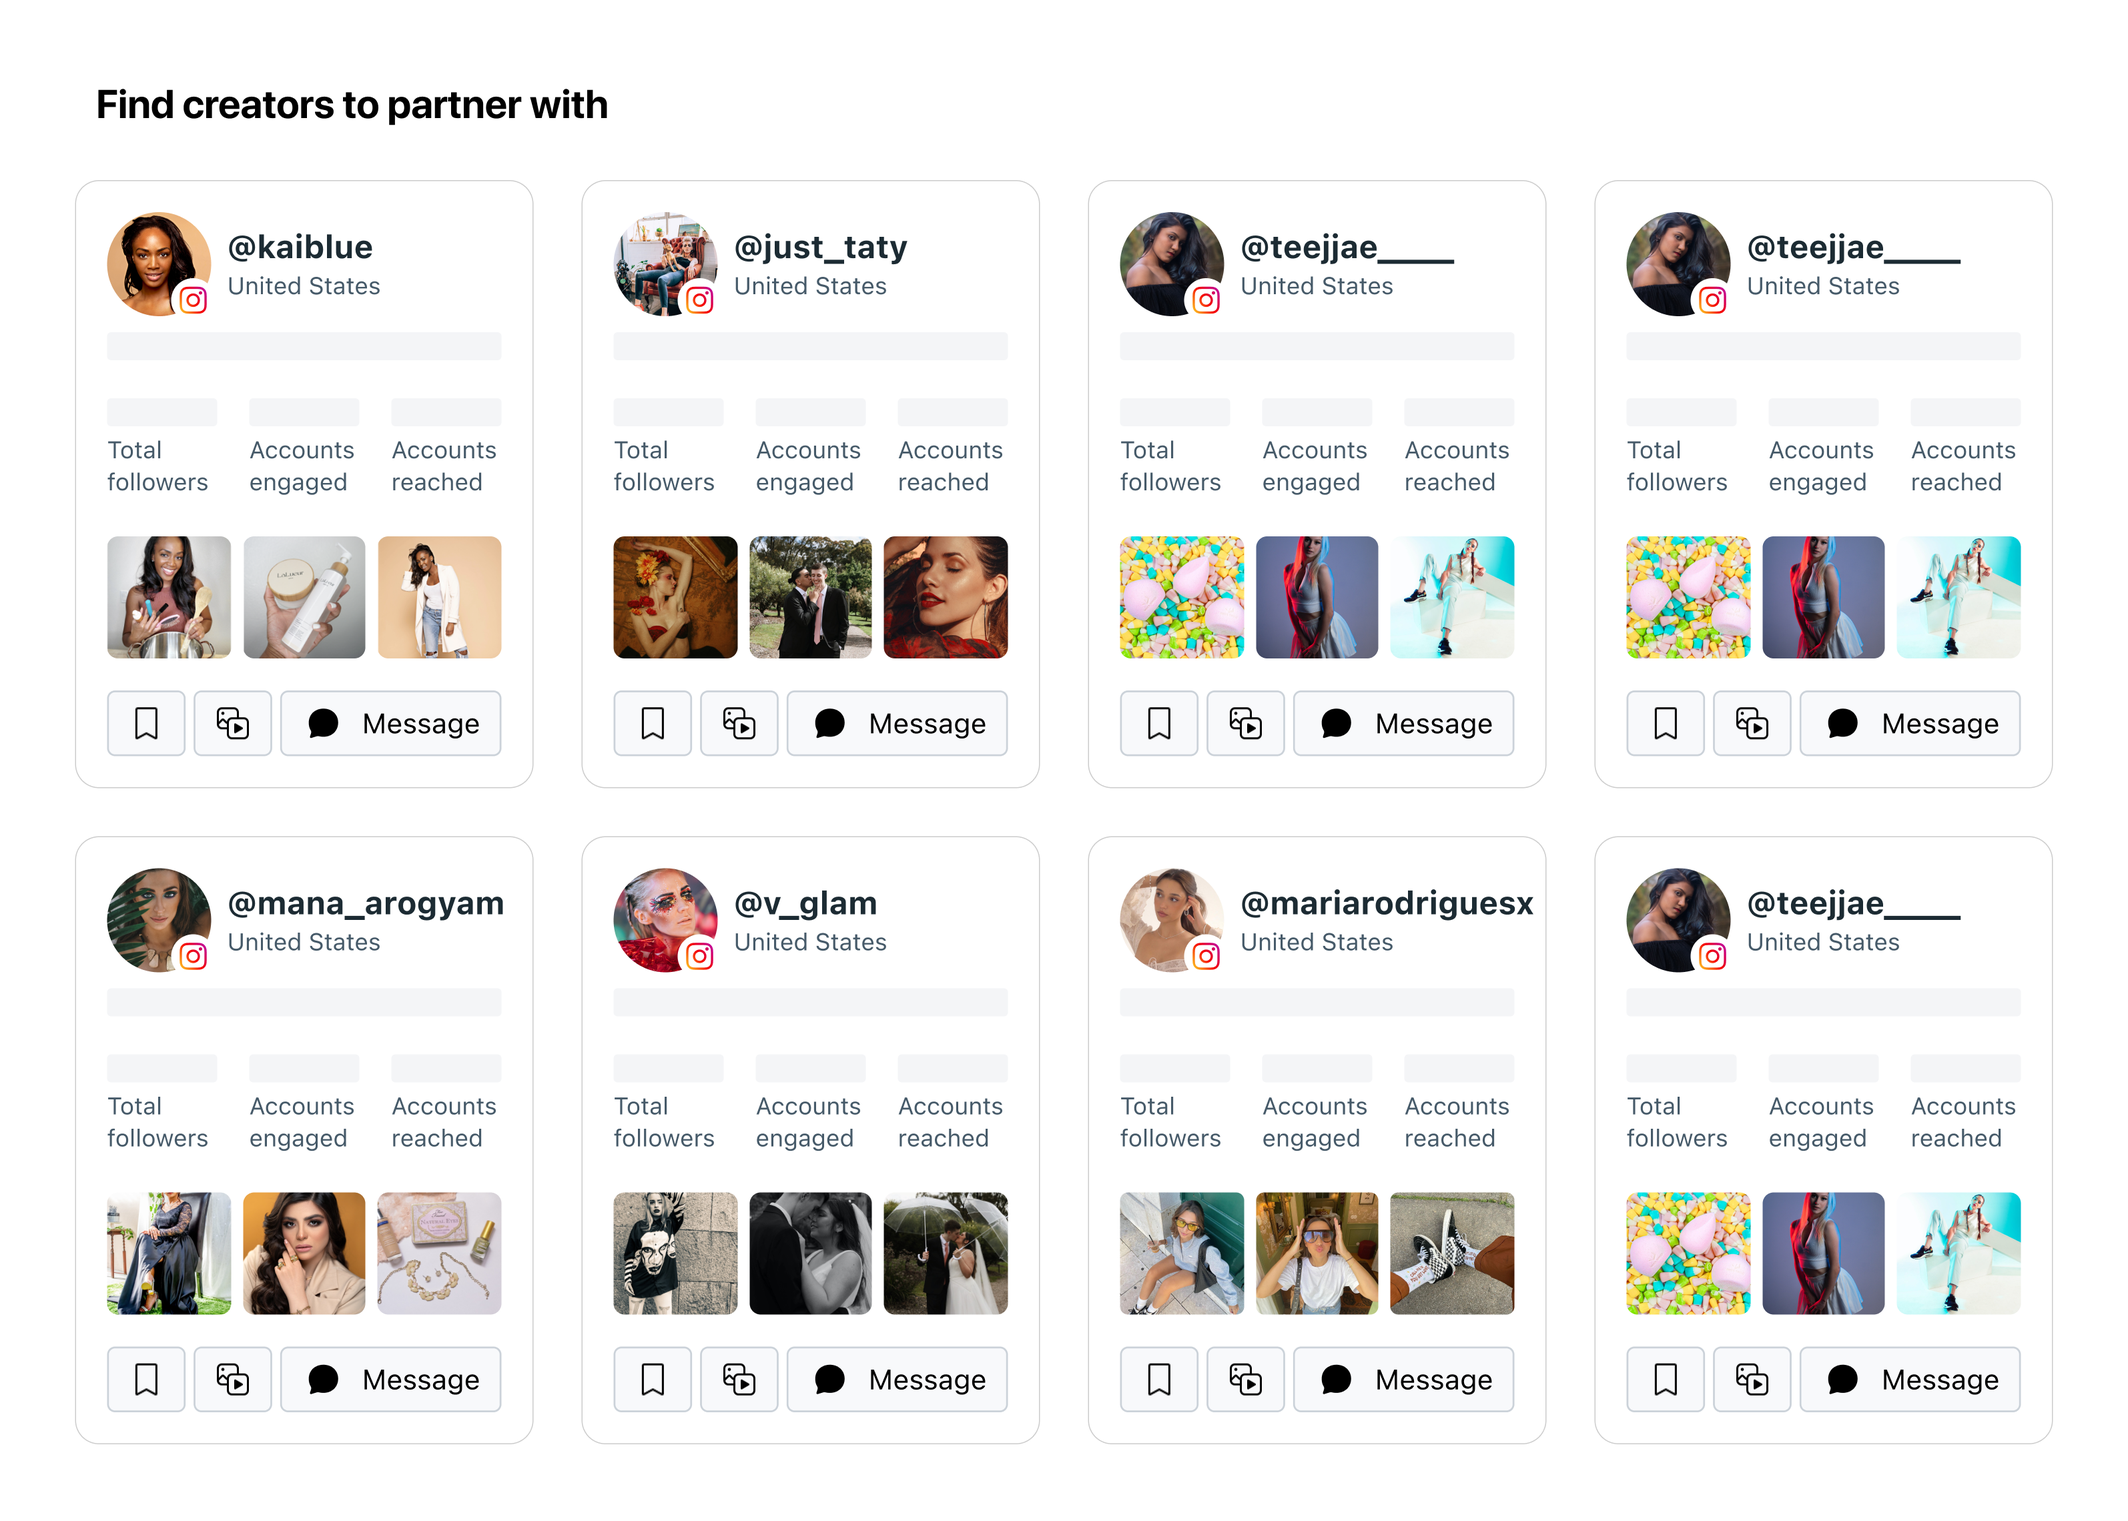
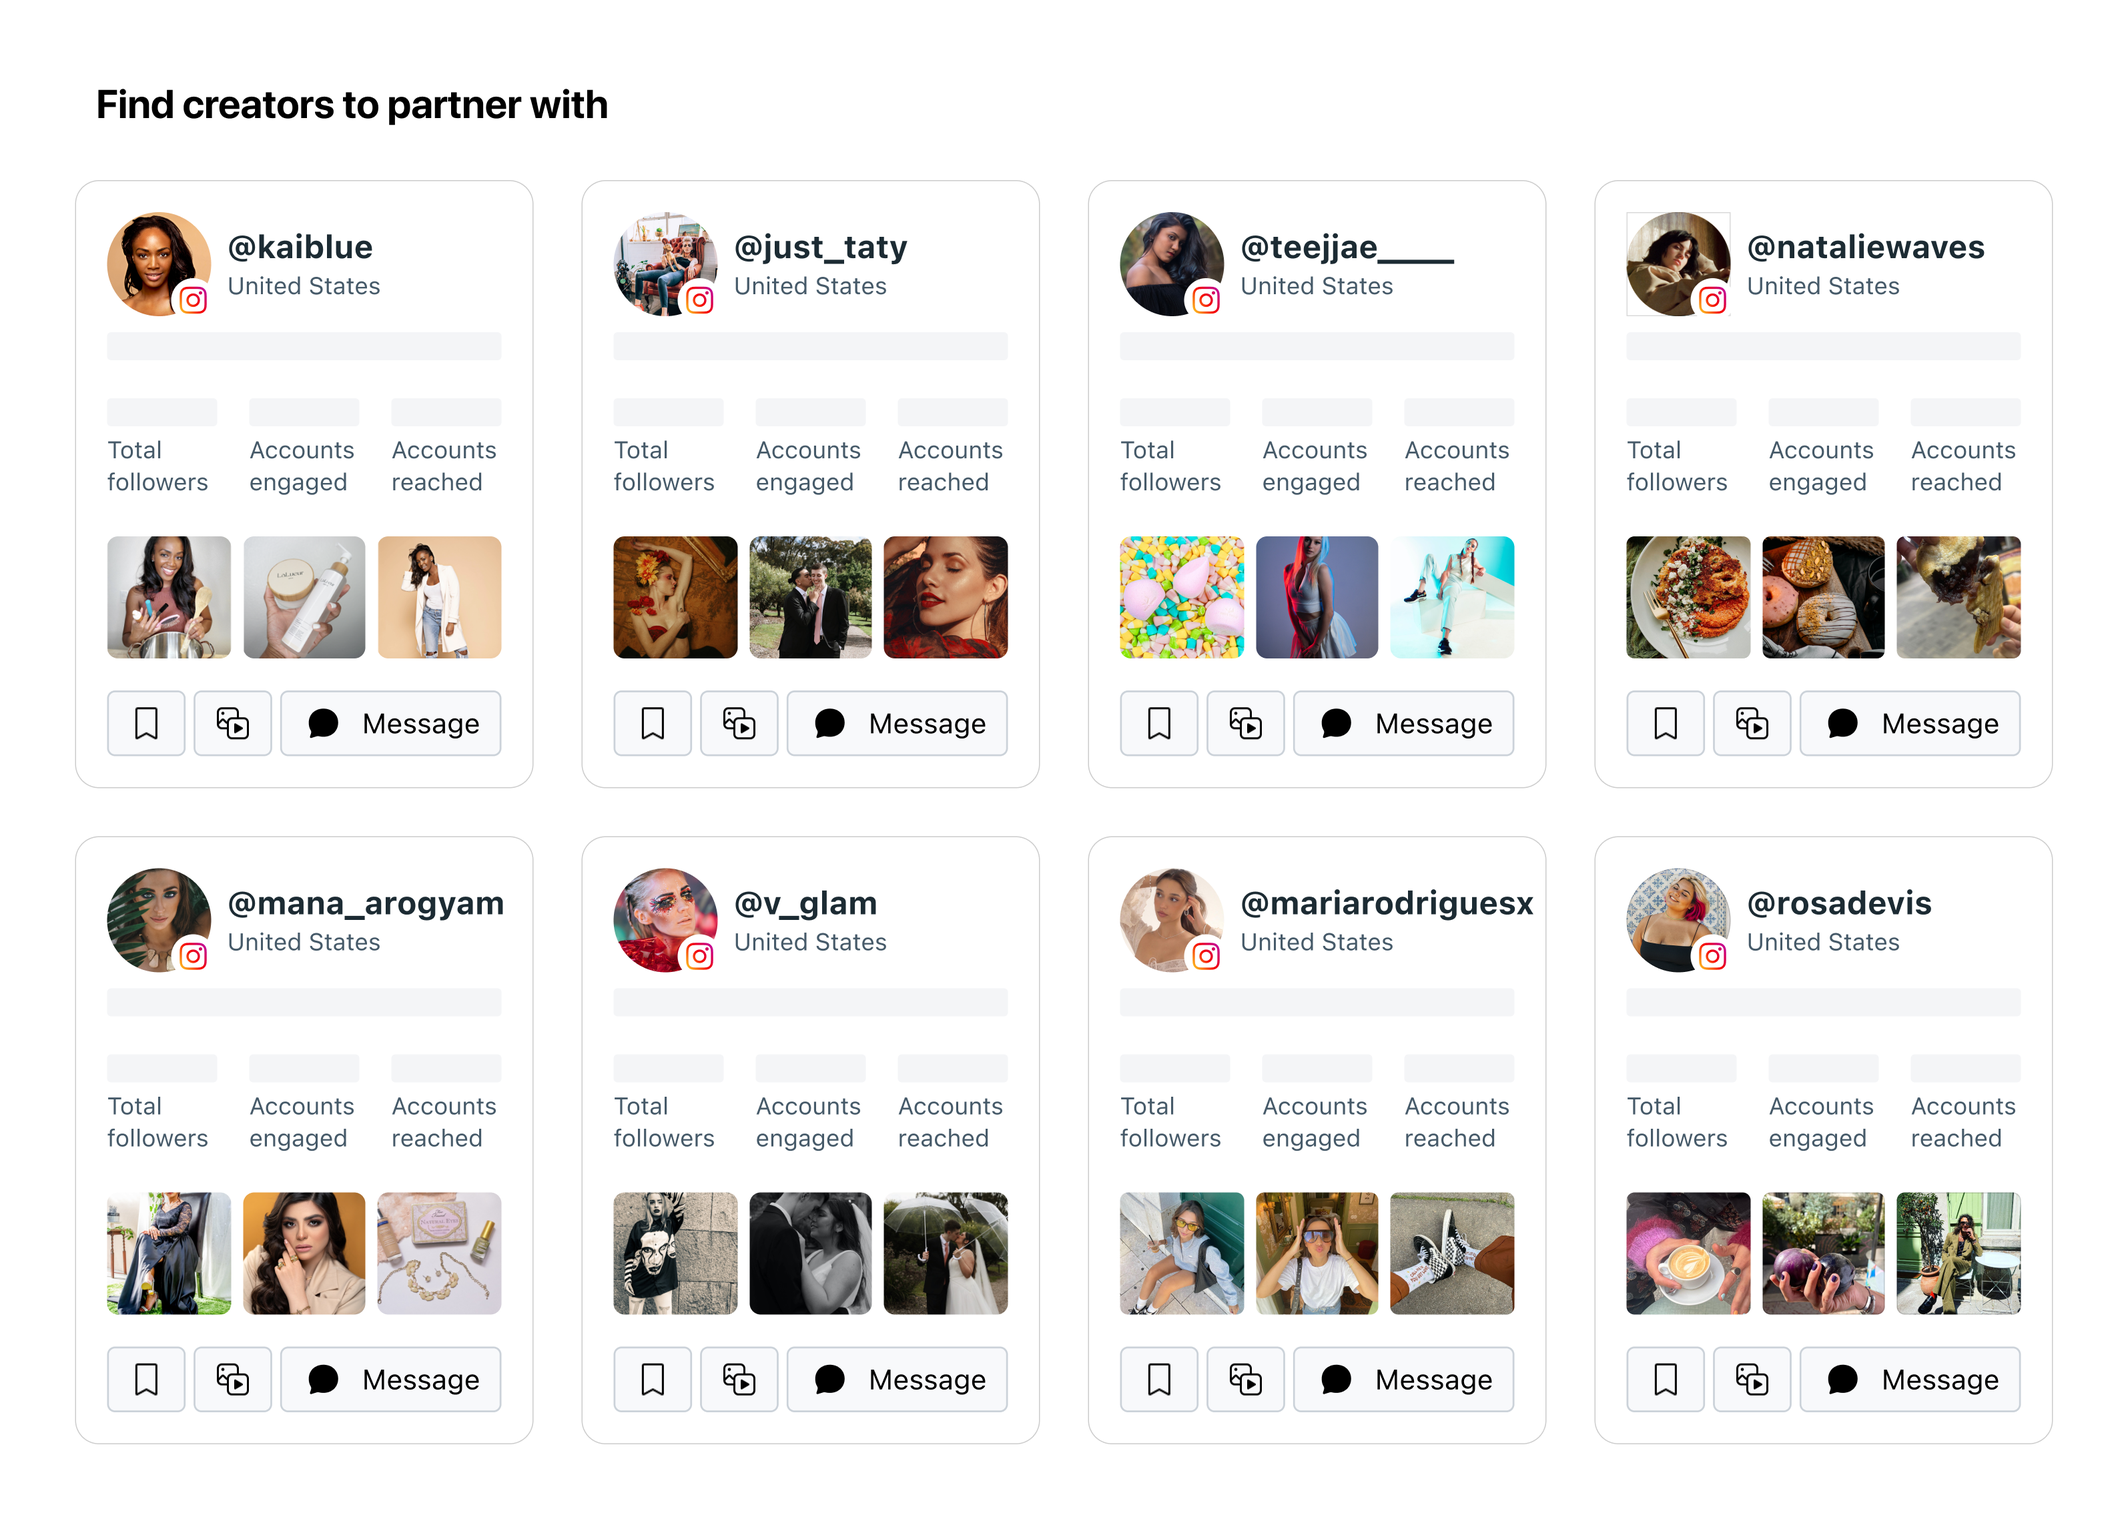
Rework Process animation, refine table, and unify case-study nav
- Process: pinned-collapse reveal (scroll-driven, reversible, no stuck/
  oscillation), staggered row-by-row table animation
- Signals table: column widths, left-aligned numbers, compact rows,
  updated row copy and example images
- Context section copy/heading tweaks; remove first-scroll hero-title snap
- Case-study nav: 1rem height, transparent over hero image and blurred
  background after it — consistent across both case studies

diff --git a/case-study-meta.html b/case-study-meta.html
@@ -88,7 +88,7 @@
             <img class="cs-context-bg" src="img/Old_creator card_grid.png" alt="Old creator marketplace creator card grid" loading="lazy">
           </div>
           <div class="cs-context-video">
-            <video src="img/What brands look for.mp4" controls playsinline preload="metadata" aria-label="What brands look for in creators on Instagram's creator marketplace"></video>
+            <video src="img/What brands look for.mp4" controls muted playsinline preload="metadata" aria-label="What brands look for in creators on Instagram's creator marketplace"></video>
           </div>
         </div>
       </div>
@@ -102,14 +102,14 @@
           <h2 class="cs-section-title">&ldquo;Look and feel&rdquo; metrics for finding creators</h2>
         </div>
         <div class="cs-body">
-          <p>Instagram's creator marketplace connects brands with creators for partnerships. Major advertisers like Nike rely on niche creators to drive traction through content that is both authentic and ad performant. But the marketplace was operating as a passive directory — <strong>77% of searches resulted in no match</strong>, creator agencies typically spent <strong>1.5 months</strong> sourcing creators, and brands had to do all the heavy lifting to find the right fit.</p>
+          <p>In paid marketing, brands rely on niche creators to produce content that feels authentic and drives ad performance. However, the marketplace operated as a passive directory&mdash;<strong>77% of searches returned no matches</strong>, agencies spent up to <strong>1.5 months</strong> sourcing creators, and brands were left doing the heavy lifting to find the right creators.</p>
         </div>
         <div class="cs-problems">
           <div class="cs-problem">
             <div class="cs-problem-content">
               <span class="cs-problem-icon">1</span>
               <h3>Content Buried in the Layout</h3>
-              <p>For brands, content quality matters more than who's posting it — it's the strongest signal of whether a partnership ad will convert. But the creator card was built around creator stats like follower count, location, and category, with no way to preview the content itself, leaving brands unable to evaluate what actually drives results.</p>
+              <p>For paid marketing, content quality matters. But the creator card was built around creator stats like follower count, location, and category, with no way to preview the content itself, leaving brands unable to evaluate what actually drives results.</p>
             </div>
             <div class="cs-problem-image">
               <img src="img/Old_Creator Card.png" alt="Old creator card design showing limited creator discovery experience" loading="lazy">
@@ -173,7 +173,7 @@
         <div class="cs-process-heading-group">
           <div class="cs-section-header">
             <span class="cs-section-label">Process</span>
-            <h2 class="cs-section-title">Prioritizing mid-funnel</h2>
+            <h2 class="cs-section-title">Prioritizing the mid-funnel</h2>
           </div>
           <div class="cs-body">
             <p id="cs-process-description">From 50+ ideas, impact sizing surfaced four high-potential concepts. In partnership with leadership, we focused on content and creator sourcing&mdash;the highest-leverage point in the mid-funnel to improve match quality and drive downstream conversion.</p>
@@ -230,16 +230,16 @@
             <tbody>
               <tr class="cs-signals-table-highlight">
                 <td>1</td>
-                <td>&num; of creatives that are PA/BC</td>
+                <td>&num; of creatives that are branded content</td>
                 <td>Medium</td>
                 <td>High</td>
                 <td><img class="cs-signals-table-img" src="img/Creator card explorations/text_var_01.png" alt="Text variant example 1" loading="lazy"></td>
               </tr>
               <tr class="cs-signals-table-highlight">
                 <td>2</td>
-                <td>&num; of times a creator has mentioned the brand</td>
+                <td>&num; of creatives that are partnership ads</td>
+                <td>Medium</td>
                 <td>High</td>
-                <td>Low</td>
                 <td><img class="cs-signals-table-img" src="img/Creator card explorations/text_var_02.png" alt="Text variant example 2" loading="lazy"></td>
               </tr>
               <tr class="cs-signals-table-highlight">
@@ -251,17 +251,17 @@
               </tr>
               <tr class="cs-signals-table-highlight">
                 <td>4</td>
-                <td>&num; of times a creator has tagged the product of the brand</td>
+                <td>Worked with similar brands</td>
                 <td>Medium</td>
                 <td>Low/Medium</td>
-                <td><img class="cs-signals-table-img" src="img/Creator card explorations/text_var_05.png" alt="Text variant example 4" loading="lazy"></td>
+                <td><img class="cs-signals-table-img" src="img/Creator card explorations/text_var_06.png" alt="Text variant example 4" loading="lazy"></td>
               </tr>
               <tr class="cs-signals-table-highlight">
                 <td>5</td>
                 <td>&num; of affiliate content a creator has for the brand</td>
                 <td>Low</td>
                 <td>High</td>
-                <td><img class="cs-signals-table-img" src="img/Creator card explorations/text_var_06.png" alt="Text variant example 5" loading="lazy"></td>
+                <td><img class="cs-signals-table-img" src="img/Creator card explorations/text_var_05.png" alt="Text variant example 5" loading="lazy"></td>
               </tr>
               <tr class="cs-signals-table-highlight cs-signals-table-last-visible">
                 <td>6</td>
@@ -441,21 +441,15 @@
     var yearEl = document.querySelector('.footer-year');
     if (yearEl) yearEl.textContent = new Date().getFullYear();
 
-    // On the first scroll, snap the hero title to the top instead of landing mid-hero
-    var heroTitle = document.querySelector('.cs-hero-title');
-    if (heroTitle) {
-      window.addEventListener('scroll', function() {
-        var target = heroTitle.getBoundingClientRect().top + window.scrollY - 80;
-        window.scrollTo({ top: target, behavior: 'smooth' });
-      }, { passive: true, once: true });
-    }
-
-    // Toggle nav color when scrolled past hero
+    // Show the nav's blurred background once scrolled past the hero IMAGE
+    // (transparent/white over the image, solid background everywhere after).
     var hero = document.querySelector('.cs-hero');
+    var heroCover = document.querySelector('.cs-hero-cover');
+    var navTrigger = heroCover || hero;
     var nav = document.querySelector('.case-study-nav');
-    if (hero && nav) {
+    if (navTrigger && nav) {
       window.addEventListener('scroll', function() {
-        if (window.scrollY >= hero.offsetHeight) {
+        if (window.scrollY >= navTrigger.offsetHeight - 1) {
           nav.classList.add('nav-past-hero');
         } else {
           nav.classList.remove('nav-past-hero');
@@ -490,12 +484,21 @@
       }, { threshold: 0.3 }).observe(results);
     }
 
-    // Context section — fade background to dark on scroll into view
+    // Context section — fade background to dark and autoplay video on scroll into view
     var contextSection = document.querySelector('.cs-section--context');
     if (contextSection) {
+      var contextVideo = contextSection.querySelector('video');
       new IntersectionObserver(function(entries) {
         entries.forEach(function(entry) {
           contextSection.classList.toggle('is-dark', entry.isIntersecting);
+          if (contextVideo) {
+            if (entry.isIntersecting) {
+              var p = contextVideo.play();
+              if (p && p.catch) p.catch(function() {});
+            } else {
+              contextVideo.pause();
+            }
+          }
         });
       }, { threshold: 0.35 }).observe(contextSection);
     }
@@ -571,20 +574,27 @@
         var progress = (NAV_CLEARANCE - descBottom) / fadeRange;
         progress = Math.max(0, Math.min(1, progress));
         var exitP = Math.min(1, progress / 0.6);
-        var collapseP = progress;
 
-        ideaCards.forEach(function(card, i) {
-          var col = i % 2 === 0 ? -1 : 1;
-          var row = card.classList.contains('cs-idea-card--top') ? -1 : 1;
-          var x = col * exitP * SPREAD_X;
-          var y = row * exitP * SPREAD_Y;
-          card.style.transform = 'translate(' + x + 'px, ' + y + 'px)';
+        // Cards fade in place (no spreading).
+        ideaCards.forEach(function(card) {
           card.style.opacity = String(1 - exitP);
         });
 
-        ideasCollapse.style.height = (naturalHeight * (1 - collapseP)) + 'px';
+        // Collapse the cards' empty space over a scroll distance equal to their
+        // own height, so the height shrinks at the same rate you scroll — keeping
+        // the ML section visually pinned as the cards collapse above it (no "stuck"
+        // feeling, no jump). Purely scroll-driven, so it's fully reversible and
+        // never oscillates (the description above doesn't move when cards collapse).
+        var fadeDoneDescBottom = NAV_CLEARANCE - 0.6 * fadeRange;
+        var collapseP = naturalHeight > 0 ? (fadeDoneDescBottom - descBottom) / naturalHeight : 0;
+        collapseP = Math.max(0, Math.min(1, collapseP));
+        if (collapseP < 0.001) {
+          ideasCollapse.style.height = '';
+        } else {
+          ideasCollapse.style.height = (naturalHeight * (1 - collapseP)) + 'px';
+        }
 
-        var shouldReveal = progress > 0.02;
+        var shouldReveal = collapseP > 0;
         if (shouldReveal !== revealShown) {
           revealShown = shouldReveal;
           if (signalsReveal) signalsReveal.classList.toggle('is-visible', shouldReveal);
@@ -596,6 +606,7 @@
         update();
       });
       window.addEventListener('scroll', update, { passive: true });
+      window.addEventListener('load', function() { measure(); update(); });
       measure();
       update();
 
@@ -606,6 +617,19 @@
           update();
         }).observe(ideasGrid);
       }
+    }
+
+    // Stagger the signals table rows in when the table scrolls into view
+    var signalsTableWrap = document.querySelector('.cs-signals-table-wrap');
+    if (signalsTableWrap) {
+      new IntersectionObserver(function(entries, observer) {
+        entries.forEach(function(entry) {
+          if (entry.isIntersecting) {
+            entry.target.classList.add('is-revealed');
+            observer.unobserve(entry.target);
+          }
+        });
+      }, { threshold: 0.15 }).observe(signalsTableWrap);
     }
 
     // Back to top button

diff --git a/css/case-study.css b/css/case-study.css
@@ -14,6 +14,7 @@
   background-color: transparent;
   backdrop-filter: none;
   box-shadow: none;
+  padding: 1rem 0;
   transition: background-color 0.3s ease, backdrop-filter 0.3s ease, box-shadow 0.3s ease;
 }
 
@@ -167,9 +168,9 @@
 
 .cs-context-gradient {
   position: absolute;
-  left: -22%;
-  bottom: -18%;
-  width: 75%;
+  left: -40%;
+  top: -56%;
+  width: 120%;
   z-index: 0;
   pointer-events: none;
   user-select: none;
@@ -1342,6 +1343,7 @@
   border-collapse: collapse;
   font-family: var(--font-body);
   font-size: var(--text-sm);
+  text-align: left;
 }
 
 .cs-signals-table th {
@@ -1356,13 +1358,11 @@
 }
 
 .cs-signals-table td {
-  padding: var(--space-sm) var(--space-md);
+  padding: var(--space-xs) var(--space-md);
   border-bottom: 1px solid #f0f0f0;
   color: #4b5563;
 }
 
-.cs-signals-table td:nth-child(1),
-.cs-signals-table th:nth-child(1),
 .cs-signals-table td:nth-child(3),
 .cs-signals-table th:nth-child(3),
 .cs-signals-table td:nth-child(4),
@@ -1370,6 +1370,24 @@
 .cs-signals-table td:nth-child(5),
 .cs-signals-table th:nth-child(5) {
   text-align: center;
+}
+
+/* Narrow the Feature column so the rating columns sit closer in */
+.cs-signals-table th:nth-child(2),
+.cs-signals-table td:nth-child(2) {
+  width: 38%;
+}
+
+/* Give the Coverage column a touch more room */
+.cs-signals-table th:nth-child(3),
+.cs-signals-table td:nth-child(3) {
+  width: 14%;
+}
+
+/* Trim the Content quality column a little */
+.cs-signals-table th:nth-child(4),
+.cs-signals-table td:nth-child(4) {
+  width: 12%;
 }
 
 .cs-signals-table-highlight td {
@@ -1389,6 +1407,25 @@
   border-bottom: none;
 }
 
+/* Staggered row-by-row reveal when the signals table scrolls into view */
+.cs-signals-table tbody tr:not(.cs-signals-table-hidden) {
+  opacity: 0;
+  transform: translateY(14px);
+  transition: opacity 0.5s var(--ease-out), transform 0.5s var(--ease-out);
+}
+
+.cs-signals-table-wrap.is-revealed tbody tr:not(.cs-signals-table-hidden) {
+  opacity: 1;
+  transform: translateY(0);
+}
+
+.cs-signals-table-wrap.is-revealed tbody tr:nth-child(1) { transition-delay: 0.10s; }
+.cs-signals-table-wrap.is-revealed tbody tr:nth-child(2) { transition-delay: 0.22s; }
+.cs-signals-table-wrap.is-revealed tbody tr:nth-child(3) { transition-delay: 0.34s; }
+.cs-signals-table-wrap.is-revealed tbody tr:nth-child(4) { transition-delay: 0.46s; }
+.cs-signals-table-wrap.is-revealed tbody tr:nth-child(5) { transition-delay: 0.58s; }
+.cs-signals-table-wrap.is-revealed tbody tr:nth-child(6) { transition-delay: 0.70s; }
+
 .cs-signals-table-img {
   display: block;
   width: 170px;
@@ -1397,8 +1434,8 @@
 }
 
 .cs-signals-table td:has(.cs-signals-table-img) {
-  padding-top: var(--space-md);
-  padding-bottom: var(--space-md);
+  padding-top: var(--space-sm);
+  padding-bottom: var(--space-sm);
 }
 
 .cs-idea-card h3 {

diff --git a/case-study-metaverse.html b/case-study-metaverse.html
@@ -492,12 +492,15 @@
     var yearEl = document.querySelector('.footer-year');
     if (yearEl) yearEl.textContent = new Date().getFullYear();
 
-    // Toggle nav color when scrolled past hero
+    // Show the nav's blurred background once scrolled past the hero IMAGE
+    // (transparent/white over the image, solid background everywhere after).
     var hero = document.querySelector('.cs-hero');
+    var heroCover = document.querySelector('.cs-hero-cover');
+    var navTrigger = heroCover || hero;
     var nav = document.querySelector('.case-study-nav');
-    if (hero && nav) {
+    if (navTrigger && nav) {
       window.addEventListener('scroll', function() {
-        if (window.scrollY >= hero.offsetHeight) {
+        if (window.scrollY >= navTrigger.offsetHeight - 1) {
           nav.classList.add('nav-past-hero');
         } else {
           nav.classList.remove('nav-past-hero');
